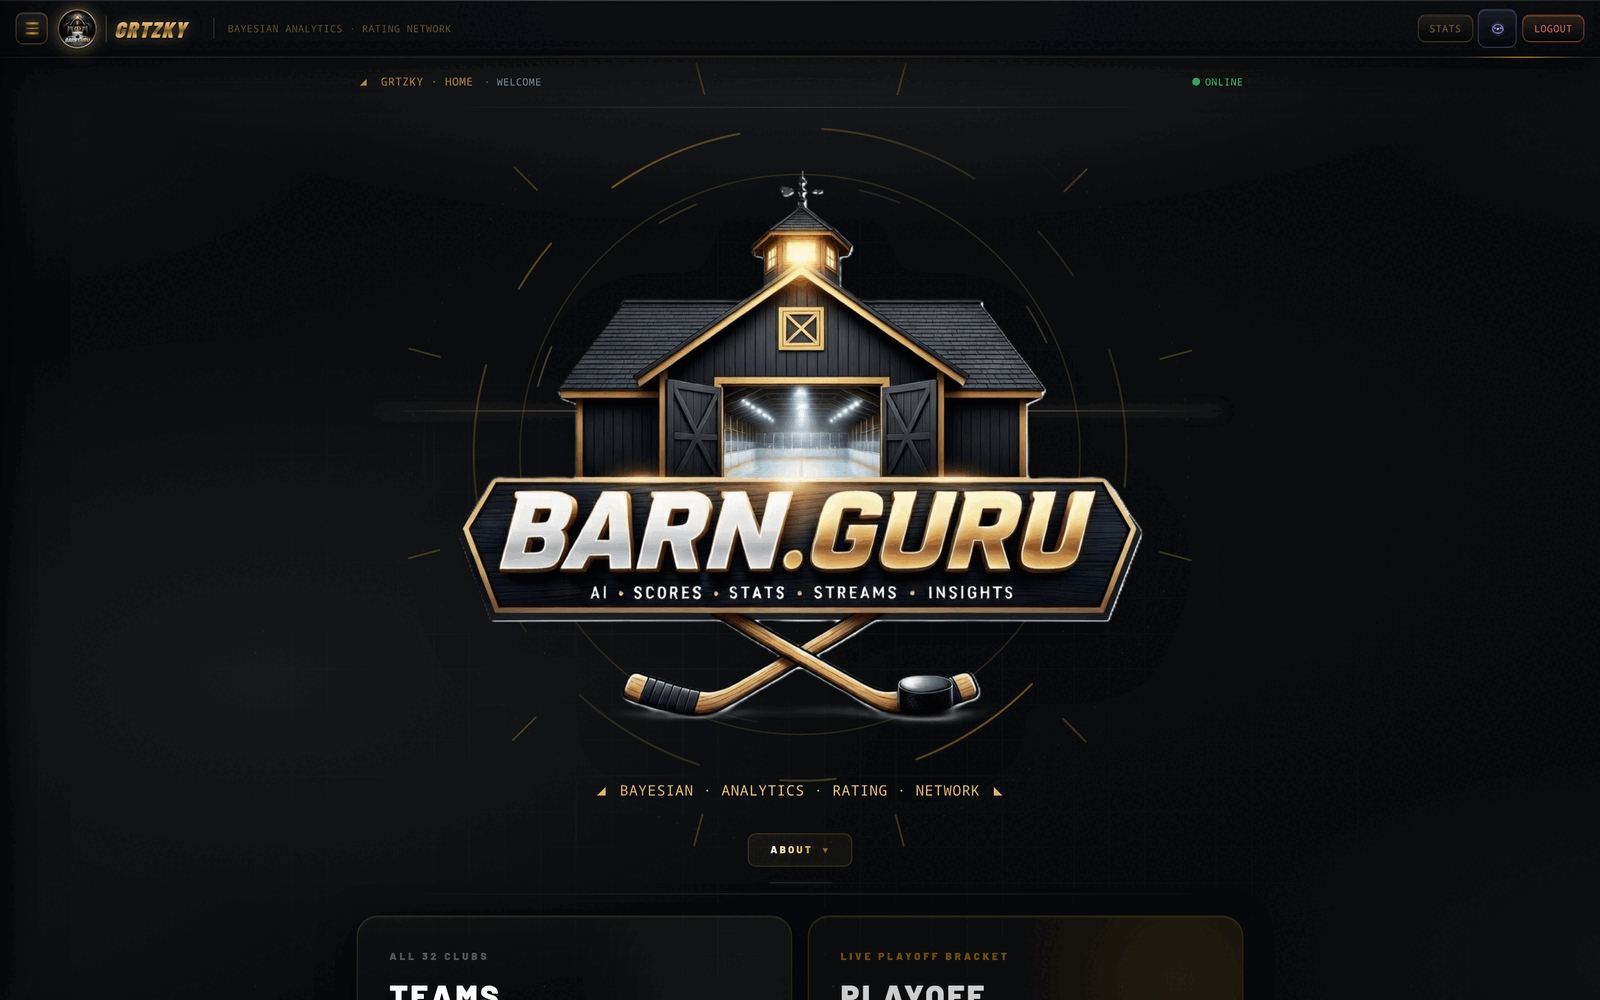
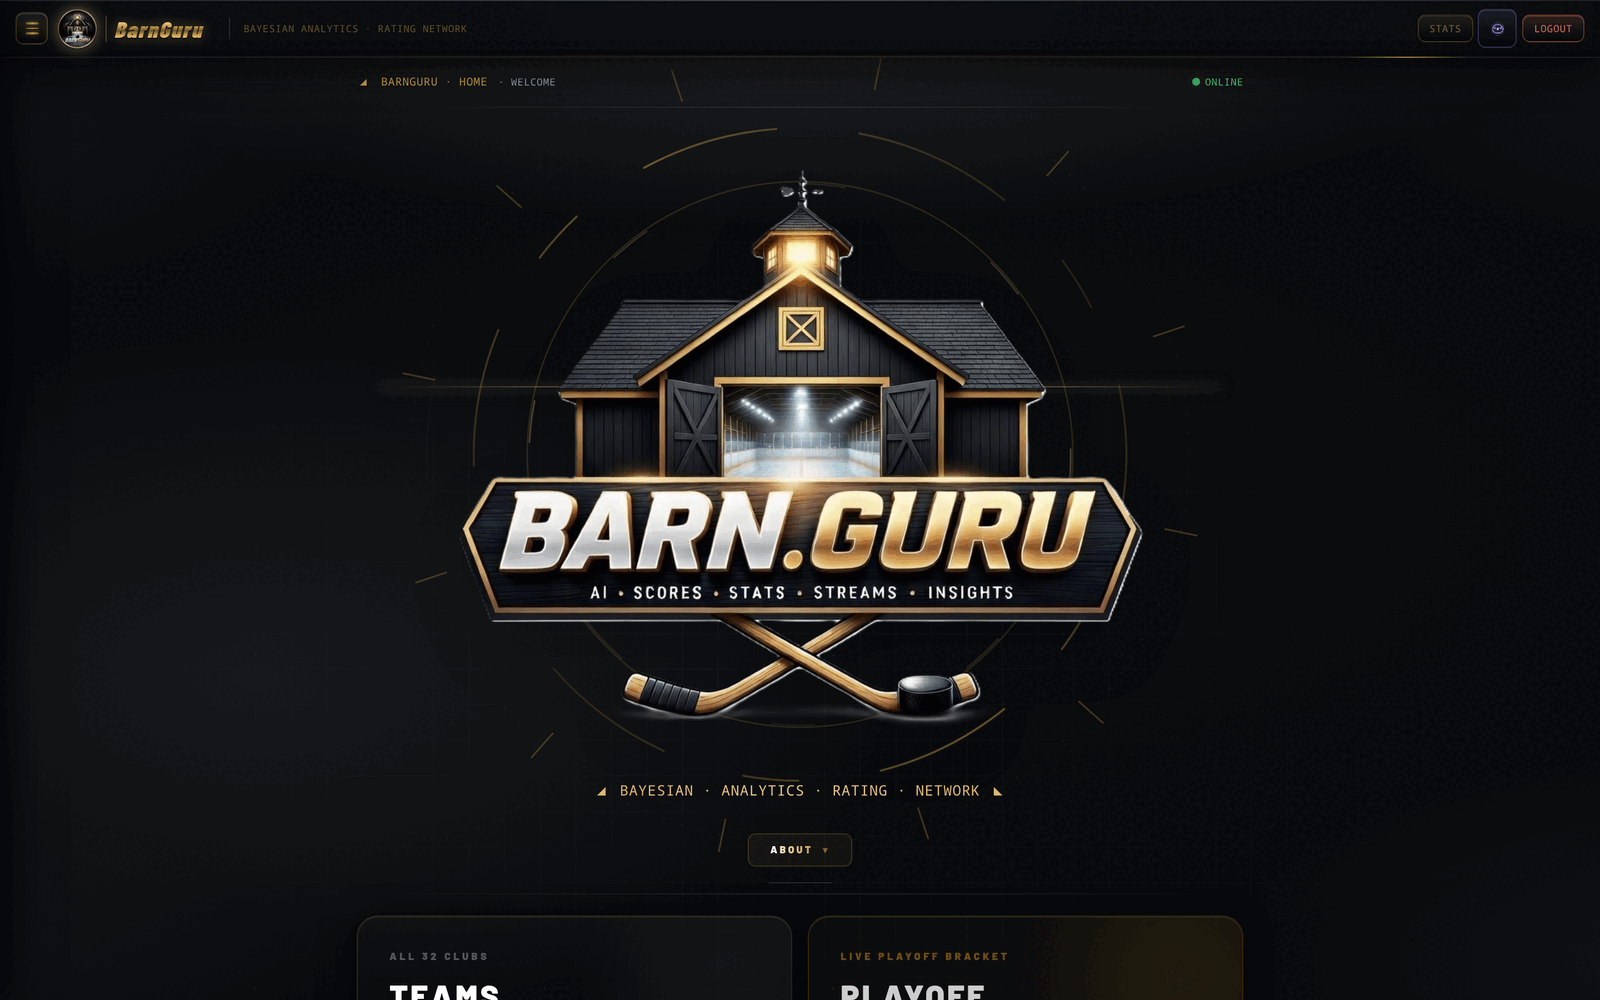
fix(branding): restore the BarnGuru name
An earlier sanitisation pass treated 'barnguru' as a private identifier and
rewrote it to GRTZKY across 20 files — page titles, the login portal, the PWA
manifest, docstrings and localStorage keys. The project's own name is not
private; the api.barn.guru HOSTNAME was the thing that needed genericising, and
that stays pointed at localhost.

Also repairs a state/setter pair the same pass split in half
(isAppLoading + setIsGrtzkyLoading) and restores the cookie and localStorage
keys. The 82 genuine 'gretzky' references — the Rust engine's actual name — are
untouched.

diff --git a/dashboard/frontend/utils/themeContext.tsx b/dashboard/frontend/utils/themeContext.tsx
@@ -17,7 +17,7 @@ interface ThemeContextValue {
   cortexPinned: boolean;
   setCortexPinned: (v: boolean) => void;
   isCortexLoading: boolean;
-  isAppLoading: boolean;
+  isBarnGuruLoading: boolean;
   previewActive: boolean;
   setPreviewTheme: (theme: TeamTheme) => void;
   clearPreview: () => void;
@@ -31,7 +31,7 @@ export const ThemeContext = createContext<ThemeContextValue>({
   cortexPinned: false,
   setCortexPinned: () => {},
   isCortexLoading: false,
-  isAppLoading: false,
+  isBarnGuruLoading: false,
   previewActive: false,
   setPreviewTheme: () => {},
   clearPreview: () => {},
@@ -42,24 +42,24 @@ export function ThemeProvider({ children }: { children: React.ReactNode }) {
   const [isShowingLoader, setIsShowingLoader] = useState(false);
   const [cortexPinned, setCortexPinnedState] = useState(false);
   const [isCortexLoading, setIsCortexLoading] = useState(false);
-  const [isAppLoading, setIsGrtzkyLoading] = useState(false);
+  const [isBarnGuruLoading, setIsBarnGuruLoading] = useState(false);
   const [previewActive, setPreviewActive] = useState(false);
   // Stable ref so clearPreview always sees the current value without re-creating
   const previewActiveRef = useRef(false);
 
   useEffect(() => {
     try {
-      const saved = localStorage.getItem("grtzky_teamTheme");
+      const saved = localStorage.getItem("barnguru_teamTheme");
       if (saved) setThemeState(JSON.parse(saved));
-      setCortexPinnedState(localStorage.getItem("grtzky_cortexPinned") === "1");
+      setCortexPinnedState(localStorage.getItem("barnguru_cortexPinned") === "1");
     } catch {}
   }, []);
 
   const setTeamTheme = useCallback((newTheme: TeamTheme) => {
     // Selecting a team theme clears Cortex pin so the two never coexist
-    localStorage.removeItem("grtzky_cortexPinned");
+    localStorage.removeItem("barnguru_cortexPinned");
     setCortexPinnedState(false);
-    localStorage.setItem("grtzky_teamTheme", JSON.stringify(newTheme));
+    localStorage.setItem("barnguru_teamTheme", JSON.stringify(newTheme));
     setThemeState(newTheme);
     setPreviewActive(false);
     setIsShowingLoader(true);
@@ -68,10 +68,10 @@ export function ThemeProvider({ children }: { children: React.ReactNode }) {
   }, []);
 
   const clearTheme = useCallback(() => {
-    localStorage.removeItem("grtzky_teamTheme");
+    localStorage.removeItem("barnguru_teamTheme");
     setThemeState(null);
-    setIsGrtzkyLoading(true);
-    const t = setTimeout(() => setIsGrtzkyLoading(false), 6000);
+    setIsBarnGuruLoading(true);
+    const t = setTimeout(() => setIsBarnGuruLoading(false), 6000);
     return () => clearTimeout(t);
   }, []);
 
@@ -90,7 +90,7 @@ export function ThemeProvider({ children }: { children: React.ReactNode }) {
     previewActiveRef.current = false;
     setPreviewActive(false);
     try {
-      const saved = localStorage.getItem("grtzky_teamTheme");
+      const saved = localStorage.getItem("barnguru_teamTheme");
       setThemeState(saved ? JSON.parse(saved) : null);
     } catch {
       setThemeState(null);
@@ -100,24 +100,24 @@ export function ThemeProvider({ children }: { children: React.ReactNode }) {
   const setCortexPinned = useCallback((v: boolean) => {
     if (v) {
       // Switching to Cortex — clear any active team theme first
-      localStorage.removeItem("grtzky_teamTheme");
+      localStorage.removeItem("barnguru_teamTheme");
       setThemeState(null);
-      localStorage.setItem("grtzky_cortexPinned", "1");
+      localStorage.setItem("barnguru_cortexPinned", "1");
       setIsCortexLoading(true);
       const t = setTimeout(() => setIsCortexLoading(false), 6000);
       setCortexPinnedState(true);
       return () => clearTimeout(t);
     } else {
-      localStorage.removeItem("grtzky_cortexPinned");
+      localStorage.removeItem("barnguru_cortexPinned");
       setCortexPinnedState(false);
-      setIsGrtzkyLoading(true);
-      const t = setTimeout(() => setIsGrtzkyLoading(false), 6000);
+      setIsBarnGuruLoading(true);
+      const t = setTimeout(() => setIsBarnGuruLoading(false), 6000);
       return () => clearTimeout(t);
     }
   }, []);
 
   return (
-    <ThemeContext.Provider value={{ theme, setTeamTheme, clearTheme, isShowingLoader, cortexPinned, setCortexPinned, isCortexLoading, isAppLoading, previewActive, setPreviewTheme, clearPreview }}>
+    <ThemeContext.Provider value={{ theme, setTeamTheme, clearTheme, isShowingLoader, cortexPinned, setCortexPinned, isCortexLoading, isBarnGuruLoading, previewActive, setPreviewTheme, clearPreview }}>
       {children}
     </ThemeContext.Provider>
   );

diff --git a/dashboard/frontend/app/components/ClientLayout.tsx b/dashboard/frontend/app/components/ClientLayout.tsx
@@ -22,7 +22,7 @@ function AboutDisclaimer() {
       {open && (
         <div className="px-4 pb-3 space-y-2.5">
           <p className="text-[9px] font-mono leading-relaxed text-white/40">
-            GRTZKY is a possession-level NHL game simulator built for research and pre-game analysis.
+            BarnGuru is a possession-level NHL game simulator built for research and pre-game analysis.
             It is not an automated betting tool — every market position requires human review.
           </p>
           <div className="rounded-lg border border-[#fbbf24]/20 bg-[#fbbf24]/[0.04] px-3 py-2 space-y-1.5">
@@ -296,7 +296,7 @@ function InnerLayout({ children }: { children: React.ReactNode }) {
                   <circle cx="24" cy="24" r="1.6" fill="white"   fillOpacity="0.72"/>
                 </svg>
               ) : (
-                <img src="/logo-circle.png" alt="GRTZKY" className="h-8 w-auto" />
+                <img src="/logo-circle.png" alt="BarnGuru" className="h-8 w-auto" />
               )}
               <span className="text-white/20 font-thin text-sm">|</span>
               <span
@@ -306,7 +306,7 @@ function InnerLayout({ children }: { children: React.ReactNode }) {
                   backgroundImage: `linear-gradient(to right, #fff, ${brandHex2}, ${brandHex})`,
                 }}
               >
-                {theme ? theme.abbrev : isCortexMode ? "CORTEX" : "GRTZKY"}
+                {theme ? theme.abbrev : isCortexMode ? "CORTEX" : "BarnGuru"}
               </span>
             </Link>
             <button
@@ -406,7 +406,7 @@ function InnerLayout({ children }: { children: React.ReactNode }) {
                       onClick={() => { setCortexPinned(false); setOpen(false); }}
                       className="text-[8px] font-semibold uppercase tracking-wider px-2 py-1 rounded border text-white/30 border-white/[0.10] hover:text-[#f87171]/70 hover:border-[#f87171]/30 transition-all duration-150"
                     >
-                      GRTZKY
+                      BarnGuru
                     </button>
                   </div>
                 </div>
@@ -423,7 +423,7 @@ function InnerLayout({ children }: { children: React.ReactNode }) {
           {/* Sidebar footer */}
           <div className="px-4 py-3 border-t border-white/[0.10] shrink-0 flex items-center justify-center">
             <p className="text-[8px] font-semibold uppercase tracking-[0.2em] text-white/10">
-              GRTZKY
+              BarnGuru
             </p>
           </div>
         </aside>
@@ -517,7 +517,7 @@ function InnerLayout({ children }: { children: React.ReactNode }) {
               ) : (
                 <img
                   src="/logo-circle.png"
-                  alt="GRTZKY"
+                  alt="BarnGuru"
                   className="h-9 sm:h-8 w-auto block"
                   style={{
                     filter: `drop-shadow(0 1px 1px rgba(0,0,0,0.65))
@@ -556,7 +556,7 @@ function InnerLayout({ children }: { children: React.ReactNode }) {
                     : `drop-shadow(0 1px 0 rgba(0,0,0,0.85)) drop-shadow(0 0 6px ${brandShadow})`,
                 }}
               >
-                {theme ? theme.abbrev : isCortexMode ? "CORTEX" : "GRTZKY"}
+                {theme ? theme.abbrev : isCortexMode ? "CORTEX" : "BarnGuru"}
               </span>
             </Link>
 

diff --git a/dashboard/frontend/app/(auth)/login/page.tsx b/dashboard/frontend/app/(auth)/login/page.tsx
@@ -57,7 +57,7 @@ export default function LoginPage() {
       <div className="fixed top-3 left-3 right-3 z-20 flex items-center gap-2 flex-wrap">
         <span className="hud-mono text-[10px] uppercase tracking-[0.20em] text-[#C9A84C]" aria-hidden>◢</span>
         <span className="hud-mono text-[10px] uppercase tracking-[0.20em] text-[#C9A84C]">
-          GRTZKY · ACCESS PORTAL
+          BARNGURU · ACCESS PORTAL
         </span>
         <span className="hud-mono text-[9px] uppercase tracking-[0.16em] text-white/40">· auth required</span>
         <span className="ml-auto flex items-center gap-1">
@@ -80,11 +80,11 @@ export default function LoginPage() {
           >
             <div className="flex items-center gap-3">
               {/* eslint-disable-next-line @next/next/no-img-element */}
-              <img src="/logo-circle.png" alt="GRTZKY" className="h-14 w-auto" />
+              <img src="/logo-circle.png" alt="BarnGuru" className="h-14 w-auto" />
               <span className="text-white/15 font-thin text-lg">|</span>
               <div className="text-left">
                 <div className="text-[22px] font-semibold tracking-[0.14em] uppercase bg-gradient-to-r from-white via-[#e8eaec] to-[#b0b8c2] bg-clip-text text-transparent leading-none">
-                  GRTZKY
+                  BarnGuru
                 </div>
                 <div className="text-[8px] font-semibold uppercase tracking-[0.22em] text-white/20 mt-1">
                   Bayesian Analytics and Rating Network
@@ -187,7 +187,7 @@ export default function LoginPage() {
               <div className="rounded-xl border border-white/[0.05] bg-white/[0.02] px-3.5 py-3">
                 <p className="text-[8px] font-black uppercase tracking-[0.2em] text-white/20 mb-1.5">Pro tip</p>
                 <p className="text-[10px] text-white/25 leading-relaxed">
-                  Open GRTZKY in your browser, tap <span className="text-white/40 font-semibold">Share → Add to Home Screen</span> and you get the app icon, full-screen mode, and instant access — no App Store needed.
+                  Open BarnGuru in your browser, tap <span className="text-white/40 font-semibold">Share → Add to Home Screen</span> and you get the app icon, full-screen mode, and instant access — no App Store needed.
                 </p>
               </div>
             </form>

diff --git a/dashboard/frontend/app/page.tsx b/dashboard/frontend/app/page.tsx
@@ -15,7 +15,7 @@ export default function LandingPage() {
       <div className="relative z-10 w-full max-w-2xl mb-3 flex items-center gap-2">
         <span className="hud-mono text-[10px] uppercase tracking-[0.20em] text-[var(--brand-hex)]" aria-hidden>◢</span>
         <span className="hud-mono text-[10px] uppercase tracking-[0.20em] text-[var(--brand-hex)]">
-          GRTZKY · HOME
+          BarnGuru · HOME
         </span>
         <span className="hud-mono text-[9px] uppercase tracking-[0.16em] text-[var(--text-secondary)]">· welcome</span>
         <span className="ml-auto flex items-center gap-1">
@@ -87,7 +87,7 @@ export default function LandingPage() {
         {/* eslint-disable-next-line @next/next/no-img-element */}
         <img
           src="/hero.png"
-          alt="GRTZKY"
+          alt="BarnGuru"
           className="relative z-10 mx-auto w-full max-w-[420px] sm:max-w-[620px] lg:max-w-[760px] h-auto drop-shadow-2xl -mt-3"
         />
 
@@ -152,7 +152,7 @@ export default function LandingPage() {
           >
             <div className="w-12 h-px bg-white/[0.12] mx-auto mb-3" />
             <p className="text-[13px] text-white/60 leading-relaxed max-w-lg mx-auto mb-3">
-              If the Dev handed you a username, a password, and a secret phrase — count yourself among a very small group with access to something genuinely new. GRTZKY is the first platform of its kind: real AI-native hockey intelligence, built from the ice up, designed to find the edges the market will never see coming. Keep your credentials to yourself — access is tracked, and sharing gets your account pulled. If someone wants in, they ask the Dev.
+              If the Dev handed you a username, a password, and a secret phrase — count yourself among a very small group with access to something genuinely new. BarnGuru is the first platform of its kind: real AI-native hockey intelligence, built from the ice up, designed to find the edges the market will never see coming. Keep your credentials to yourself — access is tracked, and sharing gets your account pulled. If someone wants in, they ask the Dev.
             </p>
             <div className="w-12 h-px bg-white/[0.12] mx-auto mb-3" />
             <p className="text-[13px] text-white/60 leading-relaxed max-w-lg mx-auto mb-3">

diff --git a/dashboard/frontend/app/components/TeamThemeLoader.tsx b/dashboard/frontend/app/components/TeamThemeLoader.tsx
@@ -4,12 +4,12 @@ import { useEffect, useState } from "react";
 import { useTheme } from "@/utils/themeContext";
 
 export default function TeamThemeLoader() {
-  const { theme, isShowingLoader, isCortexLoading, isAppLoading } = useTheme();
+  const { theme, isShowingLoader, isCortexLoading, isBarnGuruLoading } = useTheme();
   const [progress, setProgress] = useState(0);
   const [visible, setVisible] = useState(false);
   const [exiting, setExiting] = useState(false);
 
-  const activeLoader = isShowingLoader || isCortexLoading || isAppLoading;
+  const activeLoader = isShowingLoader || isCortexLoading || isBarnGuruLoading;
 
   useEffect(() => {
     if (!activeLoader) {
@@ -104,8 +104,8 @@ export default function TeamThemeLoader() {
     );
   }
 
-  // GRTZKY restore loader — takes priority over any active team theme
-  if (isAppLoading) {
+  // BarnGuru restore loader — takes priority over any active team theme
+  if (isBarnGuruLoading) {
     const gold = "#C9A84C";
     return (
       <div
@@ -135,12 +135,12 @@ export default function TeamThemeLoader() {
           <div className="rounded-full flex items-center justify-center"
             style={{ width: 96, height: 96, background: `radial-gradient(circle at 40% 35%, rgba(201,168,76,0.18) 0%, rgba(0,0,0,0.6) 100%)`, boxShadow: `0 0 40px rgba(201,168,76,0.25), inset 0 1px 0 rgba(255,255,255,0.08)` }}>
             {/* eslint-disable-next-line @next/next/no-img-element */}
-            <img src="/logo-circle.png" alt="GRTZKY" width={88} height={88} className="object-contain"
+            <img src="/logo-circle.png" alt="BarnGuru" width={88} height={88} className="object-contain"
               style={{ filter: `drop-shadow(0 2px 12px rgba(201,168,76,0.5))` }} />
           </div>
         </div>
         <p className="mt-6 text-[13px] font-black uppercase tracking-[0.28em]" style={{ color: gold }}>
-          GRTZKY
+          BarnGuru
         </p>
         <p className="mt-1 text-[10px] font-medium uppercase tracking-[0.2em] text-white/30">
           Theme Restored

diff --git a/dashboard/frontend/app/components/Glossary.tsx b/dashboard/frontend/app/components/Glossary.tsx
@@ -68,7 +68,7 @@ export const GLOSSARY_MAP: Record<string, string> = {
   "IR":           "Injured Reserve — player placed on IR, ineligible to play for at least 7 days",
   // Market
   "Kelly":        "Kelly Criterion — bankroll sizing formula: bet size = edge / odds; maximises long-run growth",
-  "Edge":         "Model edge — the gap between GRTZKY's win probability and Polymarket's implied probability",
+  "Edge":         "Model edge — the gap between BarnGuru's win probability and Polymarket's implied probability",
   // Contract
   "AAV":          "Average Annual Value — yearly cap hit of a player's contract",
   "Cap Efficiency": "WAR per $1M of AAV — measures how much value a player delivers relative to their cap cost",

diff --git a/dashboard/frontend/app/stats/page.tsx b/dashboard/frontend/app/stats/page.tsx
@@ -362,7 +362,7 @@ export default function StatsPage() {
       <div className="flex items-end justify-between mb-4 relative z-10">
         <div>
           <Link href="/" className="hud-mono text-[9px] uppercase tracking-[0.28em] text-white/30 hover:text-[var(--brand-hex)] transition-colors mb-1.5 block">
-            ← GRTZKY
+            ← BarnGuru
           </Link>
           <h1 className="text-[19px] sm:text-[34px] font-black tracking-[0.08em] sm:tracking-[0.10em] uppercase leading-none bg-clip-text text-transparent"
             style={{ backgroundImage: "linear-gradient(180deg, #ffffff 0%, #E8D090 38%, #C9A84C 58%, #6a5728 78%, #E8D090 100%)", filter: "drop-shadow(0 1px 0 rgba(0,0,0,0.85))" }}>

diff --git a/dashboard/frontend/app/standings/page.tsx b/dashboard/frontend/app/standings/page.tsx
@@ -1054,7 +1054,7 @@ function StandingsPageInner() {
       <div className="flex items-end justify-between mb-4 relative z-10 flex-wrap gap-3">
         <div>
           <Link href="/" className="hud-mono text-[9px] uppercase tracking-[0.28em] text-white/30 hover:text-[var(--brand-hex)] transition-colors mb-1.5 block">
-            ← GRTZKY
+            ← BarnGuru
           </Link>
           <h1 className="text-[22px] sm:text-[34px] font-black tracking-[0.10em] uppercase leading-none bg-clip-text text-transparent"
             style={{ backgroundImage: "linear-gradient(180deg, #ffffff 0%, #E8D090 38%, #C9A84C 58%, #6a5728 78%, #E8D090 100%)", filter: "drop-shadow(0 1px 0 rgba(0,0,0,0.85))" }}>

diff --git a/dashboard/frontend/app/api/auth/me/route.ts b/dashboard/frontend/app/api/auth/me/route.ts
@@ -2,7 +2,7 @@ import { NextRequest, NextResponse } from "next/server";
 import { verifyToken } from "@/lib/auth";
 
 export async function GET(req: NextRequest) {
-  const token = req.cookies.get("grtzky_session")?.value ?? null;
+  const token = req.cookies.get("barnguru_session")?.value ?? null;
   if (!token) return NextResponse.json({ username: null });
   const payload = await verifyToken(token);
   return NextResponse.json({ username: payload?.username ?? null });

diff --git a/dashboard/frontend/utils/contextToggle.tsx b/dashboard/frontend/utils/contextToggle.tsx
@@ -25,7 +25,7 @@ interface CtxValue {
 // Bumped to v2 so any stale "season" value persisted before the playoff
 // window opened gets discarded — every visitor is re-evaluated against the
 // month-based default below on next load.
-const STORAGE_KEY = "GRTZKY:season-context:v2";
+const STORAGE_KEY = "BarnGuru:season-context:v2";
 
 function defaultContext(): SeasonContext {
   if (typeof window === "undefined") return "playoffs";

diff --git a/dashboard/frontend/app/layout.tsx b/dashboard/frontend/app/layout.tsx
@@ -18,7 +18,7 @@ const barlowCondensed = Barlow_Condensed({
 });
 
 export const metadata: Metadata = {
-  title: "GRTZKY",
+  title: "BarnGuru",
   description: "Bayesian Analytics and Rating Network",
   icons: {
     icon: [
@@ -30,7 +30,7 @@ export const metadata: Metadata = {
   appleWebApp: {
     capable: true,
     statusBarStyle: "black-translucent",
-    title: "GRTZKY",
+    title: "BarnGuru",
   },
 };
 

diff --git a/dashboard/frontend/app/api/auth/logout/route.ts b/dashboard/frontend/app/api/auth/logout/route.ts
@@ -2,7 +2,7 @@ import { NextResponse } from "next/server";
 
 export async function POST() {
   const res = NextResponse.json({ ok: true });
-  res.cookies.set("grtzky_session", "", { maxAge: 0, path: "/" });
+  res.cookies.set("barnguru_session", "", { maxAge: 0, path: "/" });
   res.cookies.set("gretzky_user", "", { maxAge: 0, path: "/" });
   return res;
 }
